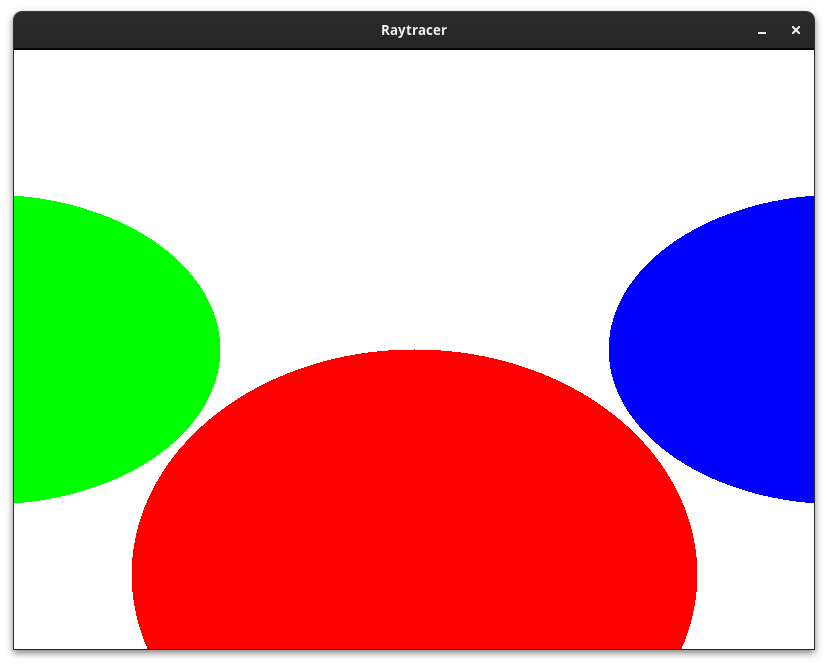
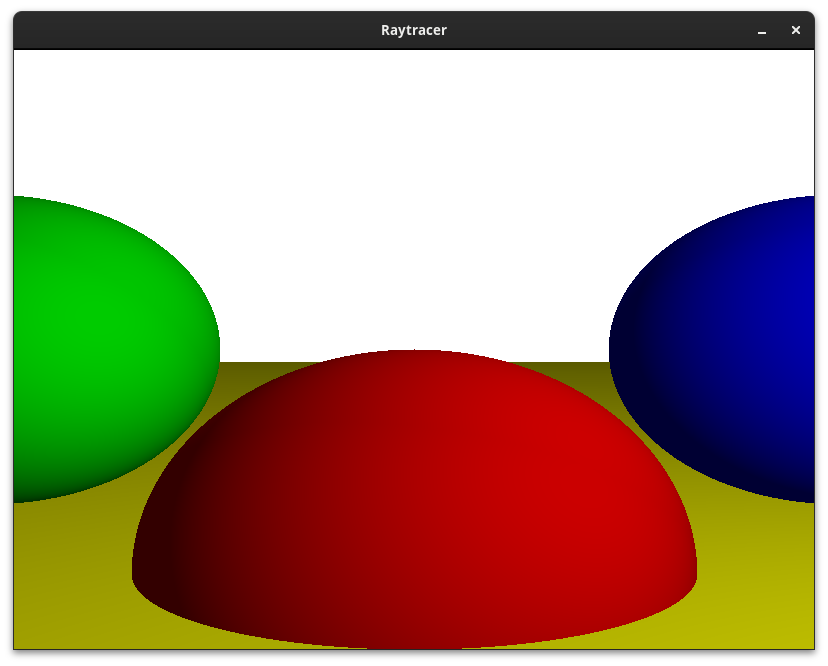
Implement lighting on matte objects

diff --git a/src/main.rs b/src/main.rs
@@ -17,6 +17,7 @@ struct Sphere {
 
 struct Scene {
     spheres: Vec<Sphere>,
+    lighting: Vec<Light>
 }
 
 #[derive(Copy, Clone)]
@@ -74,12 +75,12 @@ fn intersect_ray_sphere(origin: Vec3, distance: Vec3, sphere: &Sphere) -> (f32, 
     return (t1, t2);
 }
 
-fn trace_ray(origin: Vec3, distance: Vec3, min_t: f32, max_t: f32, scene: &Scene) -> Color {
+fn trace_ray(origin: Vec3, direction: Vec3, min_t: f32, max_t: f32, scene: &Scene) -> Color {
     let mut closest_t = INF;
     let mut closest_sphere = None;
 
     for sphere in &scene.spheres {
-        let ts = intersect_ray_sphere(origin, distance, &sphere);
+        let ts = intersect_ray_sphere(origin, direction, &sphere);
         let t1 = ts.0;
         let t2 = ts.1;
         if min_t < t1 && t1 < max_t && t1 < closest_t {
@@ -94,8 +95,63 @@ fn trace_ray(origin: Vec3, distance: Vec3, min_t: f32, max_t: f32, scene: &Scene
 
     return match closest_sphere {
         None => BACKGROUND_COLOR,
-        Some(sphere) => sphere.color,
+        Some(sphere) => { 
+            let p = origin + closest_t * direction;
+            let mut n = p - sphere.center;
+            n = n / n.length();
+            let light_intensity = compute_lighting(p, n, scene);
+            return Color::RGB(
+                ( sphere.color.r as f32 * light_intensity ) as u8,
+                ( sphere.color.g as f32 * light_intensity ) as u8,
+                ( sphere.color.b as f32 * light_intensity ) as u8
+            );
+         },
     };
+}
+
+enum LightType {
+    Ambient,
+    Point,
+    Directional
+}
+
+struct Light {
+    kind: LightType,
+    intensity: f32,
+    position: Option<Vec3>,
+    direction: Option<Vec3>
+}
+
+fn compute_lighting(p: Vec3, n: Vec3, scene: &Scene) -> f32 {
+    let mut i = 0.0;
+
+    for light in &scene.lighting {
+        match light.kind {
+            LightType::Ambient => {
+                i += light.intensity;
+            },
+            LightType::Point => {
+                let l = light.position.unwrap() - p;
+                let n_dot_l = n.dot(l);
+                // If the angle between the normal and the light vector is greater than 90, 
+                // the light is coming from behind the surface, so it cannot contribute to the lighting
+                if n_dot_l > 0.0 {
+                    i += light.intensity * n_dot_l / (n.length() * l.length());
+                }
+            },
+            LightType::Directional => {
+                let l = light.direction.unwrap();
+                let n_dot_l = n.dot(l);
+                // If the angle between the normal and the light vector is greater than 90, 
+                // the light is coming from behind the surface, so it cannot contribute to the lighting
+                if n_dot_l > 0.0 {
+                    i += light.intensity * n_dot_l / (n.length() * l.length());
+                }
+            }
+        }
+    }
+
+    return i;
 }
 
 fn main() {
@@ -124,7 +180,32 @@ fn main() {
                 radius: 1.0,
                 color: Color::RGB(0, 255, 0),
             },
+            Sphere {
+                center: Vec3::new(0.0, -5001.0, 0.0),
+                radius: 5000.0,
+                color: Color::RGB(255, 255, 0)
+            }
         ],
+        lighting: vec![
+            Light {
+                kind: LightType::Ambient,
+                intensity: 0.2,
+                position: None,
+                direction: None
+            },
+            Light {
+                kind: LightType::Point,
+                intensity: 0.6,
+                position: Some(Vec3::new(2.0, 1.0, 0.0)),
+                direction: None
+            },
+            Light {
+                kind: LightType::Directional,
+                intensity: 0.2,
+                position: None,
+                direction: Some(Vec3::new(1.0, 4.0, 4.0))
+            }
+        ]
     };
 
     // This is the camera origin
